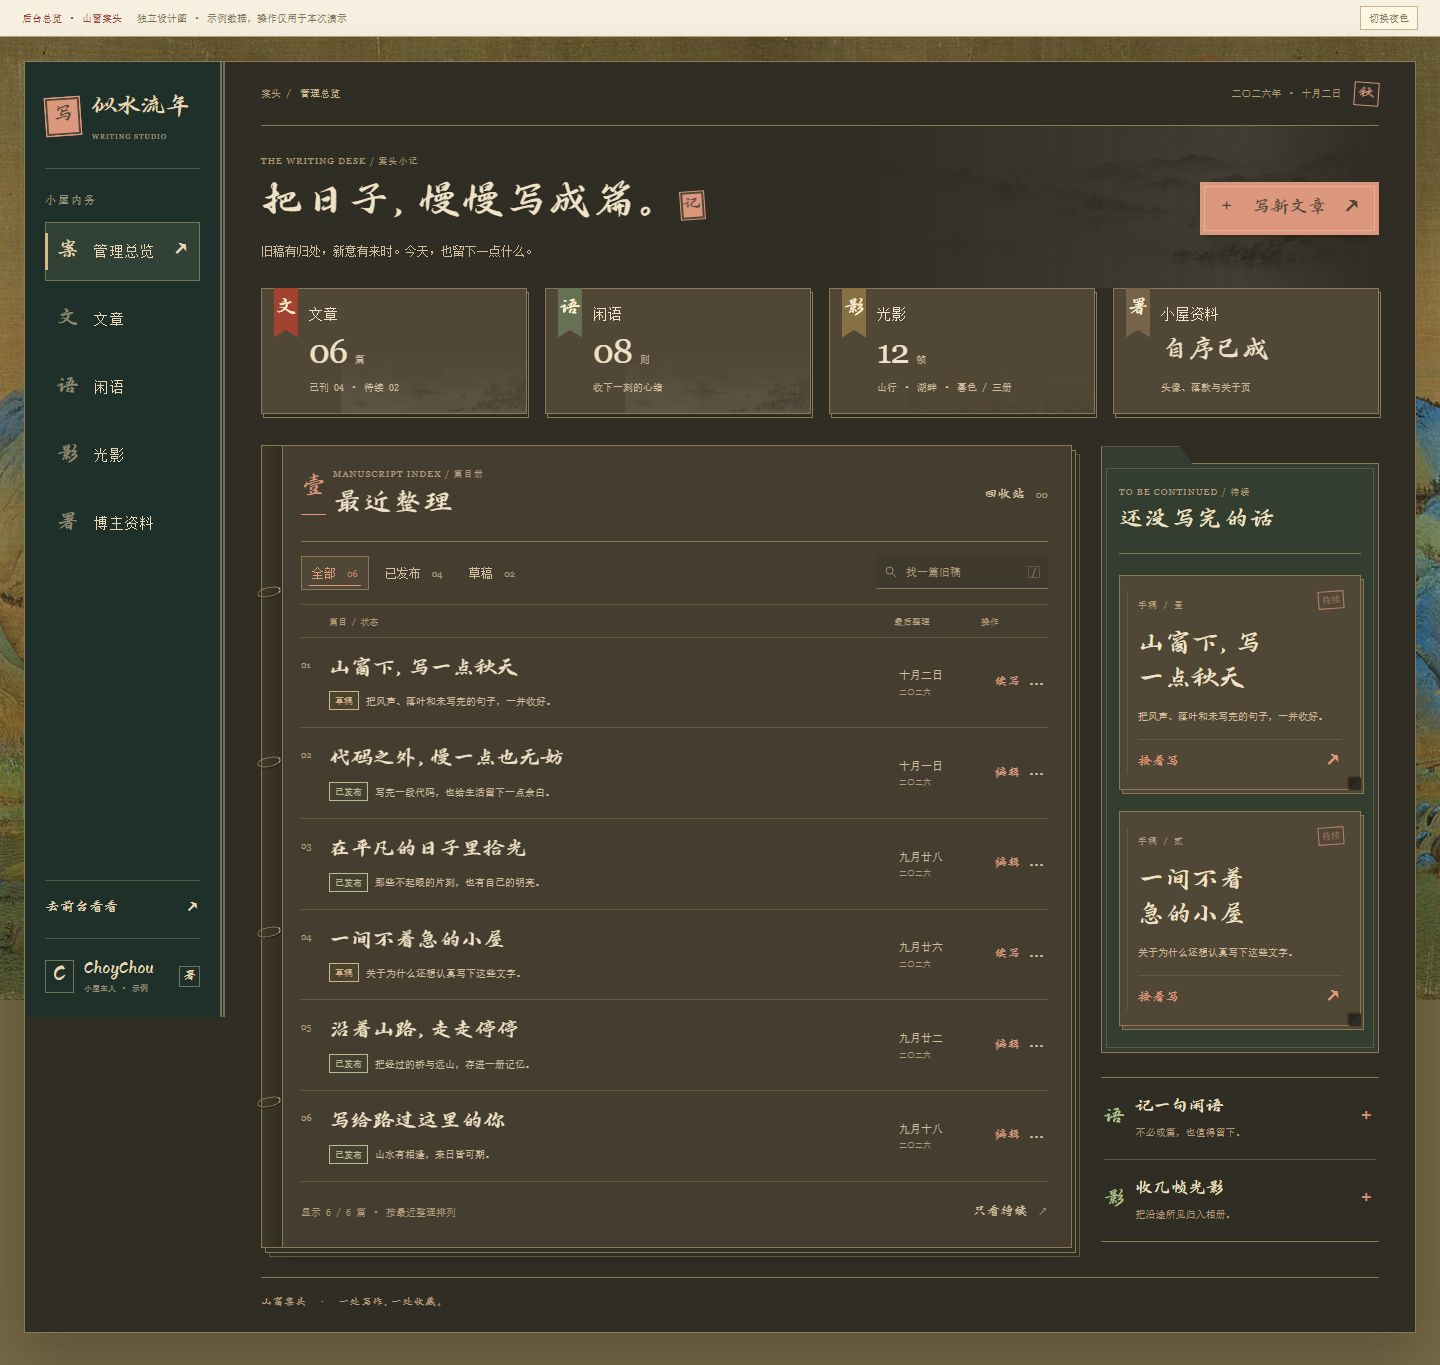
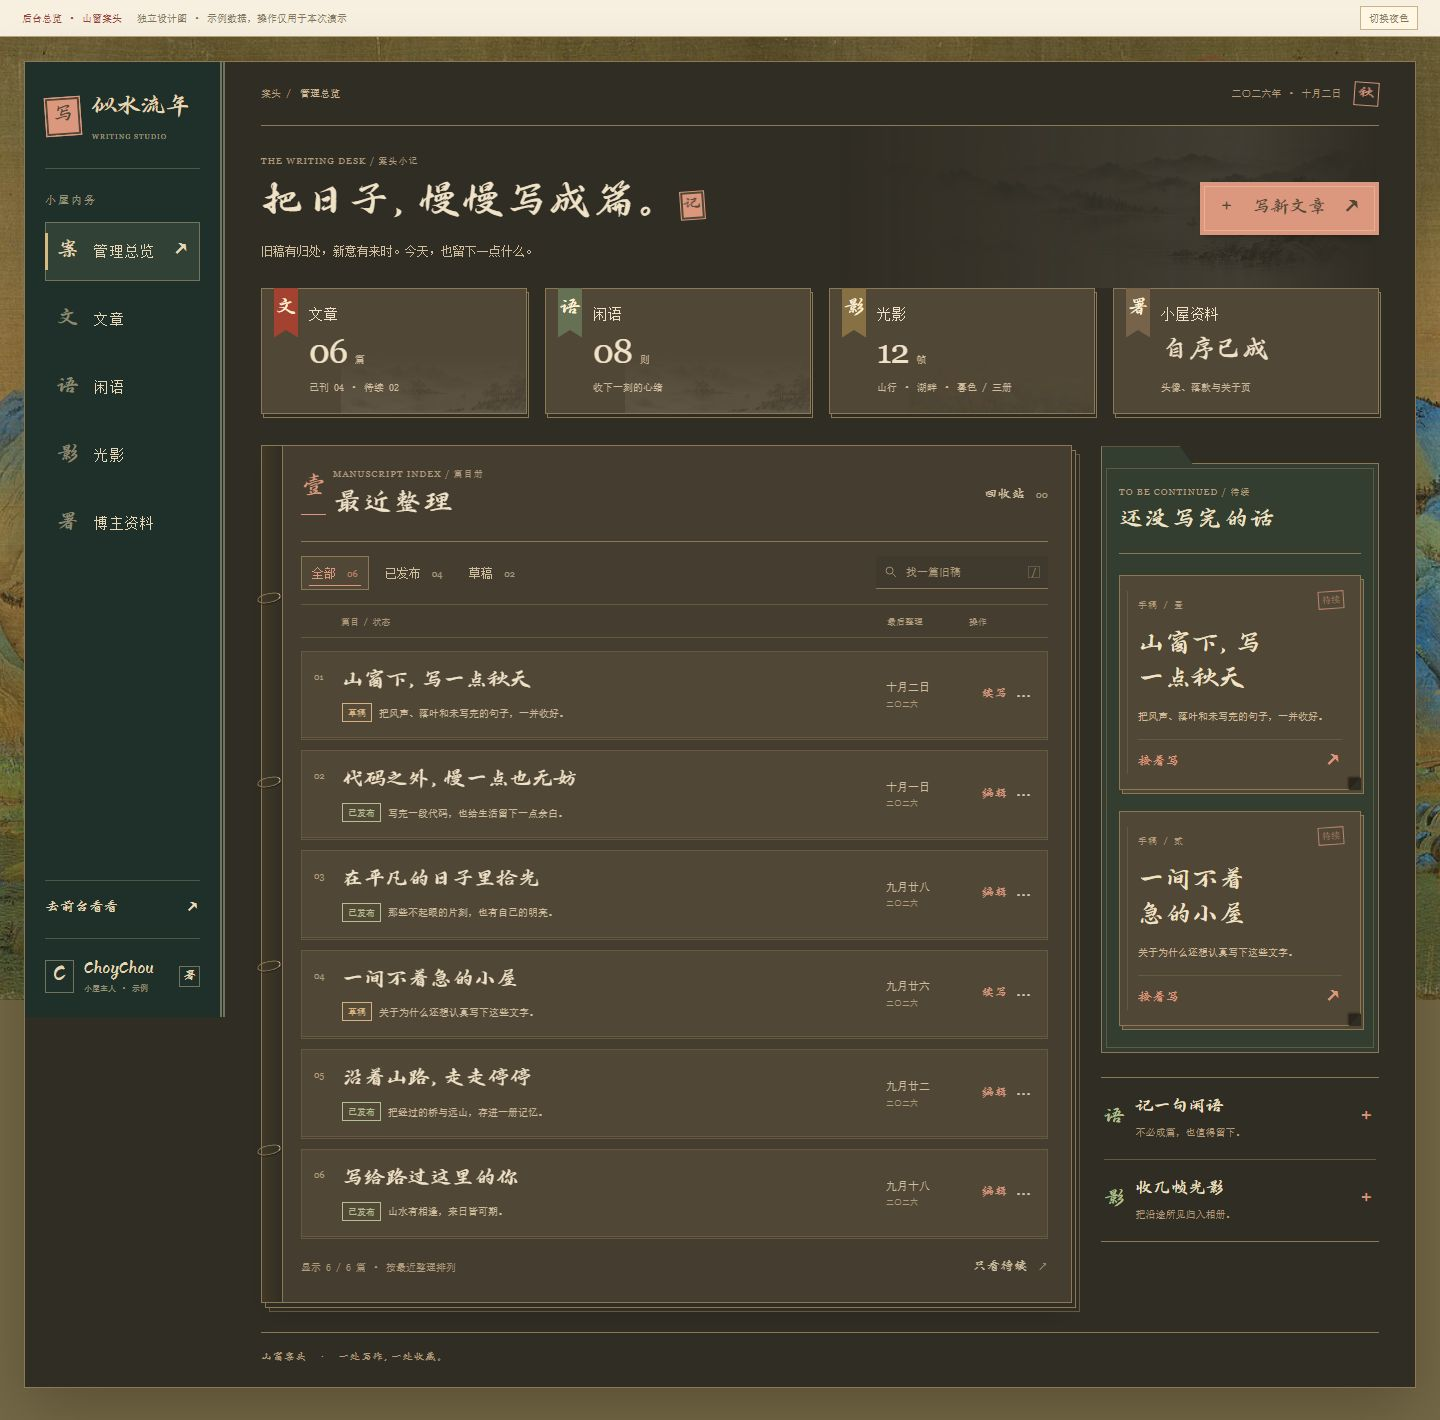
design(admin): separate paper cards and refine pointer effects

diff --git a/effect-preview/admin-desk-overview-v1.css b/effect-preview/admin-desk-overview-v1.css
@@ -96,12 +96,17 @@ main {min-width:0;padding:0 36px;}
 .search kbd {font:9px Georgia,serif;color:var(--faint);border:1px solid var(--fine);padding:0 3px;}
 .list-caption {display:grid;grid-template-columns:minmax(0,1fr) 72px 67px;gap:15px;padding:12px 0 10px;border-bottom:1px solid var(--fine);font:9px var(--song);color:var(--faint);}
 .list-caption>span:first-child {padding-left:28px;}
-.post {position:relative;isolation:isolate;display:grid;grid-template-columns:18px minmax(0,1fr) 72px 67px;align-items:center;gap:10px;padding:17px 0;border-bottom:1px solid var(--fine);}
-.post::before {content:'';position:absolute;z-index:-1;inset:0;background:radial-gradient(ellipse at var(--mx,30%) var(--my,50%),#ad8d5322,transparent 75%);opacity:0;transition:opacity .4s;}
-.post::after {content:'';position:absolute;left:-19px;top:20%;bottom:20%;width:2px;background:var(--seal);transform:scaleY(0);transform-origin:top;transition:transform .35s var(--ease);}
+.post-list {display:grid;gap:12px;padding-top:13px;}
+.post {position:relative;isolation:isolate;display:grid;grid-template-columns:18px minmax(0,1fr) 72px 67px;align-items:center;gap:10px;padding:15px 12px;background:var(--card);border:1px solid var(--fine);box-shadow:0 2px 0 -1px var(--panel),0 2px 0 var(--fine);transition:transform .35s var(--ease),border-color .35s,box-shadow .35s;}
+.post::before {content:'';position:absolute;z-index:-1;inset:1px;pointer-events:none;background:radial-gradient(ellipse 230px 130px at var(--mx,30%) var(--my,50%),#fff3c982,transparent 75%),radial-gradient(ellipse at var(--mx,30%) var(--my,50%),#ac855224,transparent 85%);opacity:0;transition:opacity .35s;}
+.post::after {content:'';position:absolute;left:-5px;top:18px;width:5px;height:31px;background:var(--seal);clip-path:polygon(0 0,100% 0,100% 100%,50% 87%,0 100%);transform:scaleY(0);transform-origin:top;transition:transform .35s var(--ease);}
+.post:hover,.post:focus-within {z-index:1;border-color:color-mix(in srgb,var(--seal) 48%,var(--line));box-shadow:0 2px 0 -1px var(--panel),0 2px 0 var(--line),0 9px 15px -12px var(--shadow);}
+.post:has(details[open]) {z-index:5;}
+@media(hover:hover) and (pointer:fine) {.post:hover {transform:translateY(-2px);}}
+.post:hover .post-index,.post:focus-within .post-index {color:var(--seal);}
 .post:hover::before,.post:focus-within::before {opacity:1;}
 .post:hover::after,.post:focus-within::after {transform:scaleY(1);}
-.post-index {align-self:start;font:9px Georgia,serif;color:var(--faint);padding-top:5px;}
+.post-index {align-self:start;font:9px Georgia,serif;color:var(--faint);padding-top:5px;transition:color .35s;}
 .post-copy {min-width:0;display:flex;align-items:center;flex-wrap:wrap;gap:7px;}
 .post-title {width:100%;border:0;padding:0;background:none;text-align:left;font:22px/1.35 var(--brush);letter-spacing:.025em;text-wrap:balance;transition:color .3s;}
 .post-title:hover {color:var(--seal);}
@@ -115,7 +120,9 @@ main {min-width:0;padding:0 36px;}
 .post time {font:11px/1.5 var(--song);color:var(--soft);white-space:nowrap;}
 .post time small {display:block;margin-top:3px;font:8px var(--song);color:var(--faint);}
 .post-ops {display:flex;align-items:center;justify-content:flex-end;gap:5px;}
-.edit-post {padding:7px 0;border:0;background:none;font:13px var(--brush);color:var(--seal);white-space:nowrap;}
+.edit-post {position:relative;padding:7px 0;border:0;background:none;font:13px var(--brush);color:var(--seal);white-space:nowrap;}
+.edit-post::before {content:'↗';position:absolute;left:-13px;top:7px;opacity:0;transform:translate(-3px,3px);transition:opacity .35s,transform .35s;}
+.post:hover .edit-post::before,.post:focus-within .edit-post::before {opacity:1;transform:none;}
 .edit-post span {display:none;}
 .post details {position:relative;}
 .post summary {display:grid;place-items:center;list-style:none;width:23px;height:29px;font:18px/1 Georgia,serif;color:var(--soft);cursor:pointer;}
@@ -149,6 +156,10 @@ main {min-width:0;padding:0 36px;}
 .draft-note:hover,.draft-note:focus-visible {transform:translateY(-2px);box-shadow:3px 5px 0 -1px var(--card),3px 5px 0 var(--line),0 12px 16px -12px var(--shadow);}
 .draft-note:hover .note-fold,.draft-note:focus-visible .note-fold {width:24px;height:24px;}
 .draft-note:hover .note-action b {transform:translate(2px,-2px);}
+@media(hover:hover) and (pointer:fine) {
+  .metric:hover,.draft-note:hover {background-image:radial-gradient(ellipse 180px 130px at var(--mx,50%) var(--my,50%),#fff3c94d,transparent 85%);}
+  .draft-note:hover {transform:perspective(900px) translateY(-2px) rotateX(var(--rx,0deg)) rotateY(var(--ry,0deg));}
+}
 .quick-notes {margin-top:24px;border-top:1px solid var(--line);border-bottom:1px solid var(--line);padding:0 3px;}
 .quick-notes button {display:flex;align-items:center;width:100%;gap:11px;padding:18px 0;text-align:left;background:none;border:0;border-bottom:1px solid var(--fine);transition:color .3s;}
 .quick-notes button:last-child {border-bottom:0;}
@@ -182,6 +193,11 @@ dialog::backdrop {background:#292313a3;backdrop-filter:blur(4px);}
 .noscript {text-align:center;padding:16px;background:var(--card);font-size:11px;color:var(--soft);}
 :root[data-theme=dark] .welcome-wash,:root[data-theme=dark] .metric::before {filter:brightness(.65) sepia(.2);}
 :root[data-theme=dark] .draft {color:#d6b182;}
+:root[data-theme=dark] .post::before {background:radial-gradient(ellipse 230px 130px at var(--mx,30%) var(--my,50%),#e8c28b1d,transparent 80%);}
+:root[data-theme=dark] .metric:hover,:root[data-theme=dark] .draft-note:hover {background-image:radial-gradient(ellipse 180px 130px at var(--mx,50%) var(--my,50%),#e8c28b14,transparent 85%);}
+
+/* 纸卡内边距与表头对齐；不挤占手机的正文宽度。 */
+.list-caption {padding-inline:12px;gap:10px;}
 @media(max-width:1540px) {.studio {margin-inline:24px;}}
 @media(max-width:1200px) {
 .studio {grid-template-columns:172px minmax(0,1fr);}.sidebar {padding-inline:15px;}.brand {font-size:22px;gap:9px;}.brand .seal {width:31px;height:35px;font-size:20px;}.sidebar nav {gap:8px;}.sidebar nav a,.sidebar nav button {gap:8px;padding-inline:5px;}.sidebar nav span {font-size:14px;}main {padding-inline:25px;}.work-area {grid-template-columns:minmax(0,1fr) 236px;gap:22px;}.archive {padding-left:33px;padding-right:16px;}.book-binding {width:18px;}.book-binding i {width:21px;}.metrics {gap:13px;}.metric {padding-left:40px;padding-right:9px;}.metric-tab {left:9px;}.metric p {font-size:9px;}.welcome h1 {font-size:38px;}.welcome .primary {font-size:17px;padding-inline:13px;gap:10px;}.draft-note {padding-inline:15px;}.draft-note h3 {font-size:25px;}.drafts {padding-inline:14px;}.filters button {padding-inline:8px;}.search {width:100%;}.post {grid-template-columns:15px minmax(0,1fr) 61px 58px;gap:7px;}.list-caption {grid-template-columns:minmax(0,1fr) 61px 58px;gap:14px;}.post-title {font-size:20px;}.post time {font-size:10px;}.post-ops {gap:2px;}.edit-post {font-size:12px;}
@@ -196,4 +212,5 @@ dialog::backdrop {background:#292313a3;backdrop-filter:blur(4px);}
 .preview-bar {padding:6px 12px;font-size:8px;}.preview-bar b {margin-right:4px;}.preview-bar button {font-size:9px;}.studio {display:block;margin:14px 12px 23px;}.sidebar {position:relative;top:auto;height:auto;min-height:0;padding:17px 16px 0;border-right:0;border-bottom:4px double #d4c49a75;}.brand {justify-content:flex-start;padding:0 0 15px;gap:10px;}.brand>span {display:block;font-size:24px;}.brand small {font-size:7px;}.sidebar nav {grid-template-columns:repeat(5,minmax(0,1fr));gap:4px;margin:12px -4px 0;}.sidebar nav a,.sidebar nav button {min-height:54px;flex-direction:column;gap:6px;padding:7px 0 12px;border:0;}.sidebar nav span {display:block;font:12px var(--song);white-space:nowrap;letter-spacing:0;}.sidebar nav i {font-size:20px;}.sidebar nav [aria-current=page] {background:transparent;}.sidebar nav [aria-current=page]::before {top:auto;bottom:0;left:10%;right:10%;height:2px;width:auto;}main {padding-inline:16px;}.topline {min-height:52px;font-size:8px;}.desk-date {font-size:8px;gap:8px;}.desk-date i {font-size:12px;}.welcome {flex-direction:column;align-items:flex-start;gap:16px;min-height:0;padding:23px 0 26px;}.welcome h1 {font-size:35px;}.welcome-title-tail {display:block;}.welcome h1 .seal {width:21px;height:24px;font-size:14px;vertical-align:3px;margin-left:8px;}.welcome p:last-child {font-size:10px;line-height:1.9;}.welcome .primary {align-self:flex-end;font-size:16px;min-height:39px;padding:9px 13px;gap:16px;}.welcome-wash {top:48px;bottom:0;width:85%;}.metrics {gap:14px;margin-bottom:27px;}.metric {padding:15px 8px 14px 36px;min-height:122px;}.metric-tab {left:7px;width:20px;height:43px;font-size:17px;}.metric-name {font-size:12px;}.metric-number {font-size:29px;}.metric p {font-size:9px;}.profile-status {font-size:22px;}.archive {padding:0 12px 14px 27px;box-shadow:3px 4px 0 -1px var(--paper),3px 4px 0 var(--line);}.book-binding {width:14px;}.book-binding i {width:17px;height:8px;margin-left:-4px;}.section-head {padding:17px 0 16px;gap:10px;}.section-head h2 {font-size:26px;}.eyebrow {font-size:8px;}.archive .section-head>div {padding-left:25px;}.chapter-number {font-size:23px;}.text-button {font-size:12px;}.filter-line {gap:13px;padding:13px 0;}.filters {width:100%;justify-content:space-between;gap:2px;}.filters button {flex:1;font-size:11px;padding-inline:5px;}.search {width:100%;}.list-caption {display:none;}.post {grid-template-columns:12px minmax(0,1fr) 53px;gap:6px;padding:17px 0;}.post::after {left:-10px;}.post-copy {grid-column:2;grid-row:1;gap:7px;align-items:start;}.post-title {font-size:21px;}.post-copy>p {flex:0 0 100%;order:2;white-space:normal;display:-webkit-box;-webkit-line-clamp:2;-webkit-box-orient:vertical;font-size:10px;}.post-copy>div {order:3;}.status {font-size:9px;}.post time {grid-column:3;grid-row:1;align-self:start;text-align:right;font-size:10px;margin-top:3px;}.post time small {font-size:8px;}.post-ops {grid-column:3;grid-row:1;align-self:end;gap:1px;padding-top:35px;}.edit-post {font-size:12px;}.post summary {width:19px;height:27px;font-size:16px;}.post details>div {min-width:128px;}.list-foot {font-size:9px;gap:6px;}.list-foot .text-button {font-size:11px;}.drafts {padding-inline:13px;}.drafts .section-head {padding:17px 0 16px;}.drafts h2 {font-size:24px;}#draft-cards {gap:13px;}.draft-note {padding:13px 10px 12px;min-height:198px;}.draft-note::before {left:4px;}.draft-note::after {right:9px;top:11px;font-size:8px;}.draft-note small {font-size:8px;letter-spacing:0;}.draft-note h3 {font-size:22px;margin-top:17px;}.draft-note p {font-size:9px;}.note-action {font-size:12px;}.quick-notes {gap:16px;}.quick-notes button {gap:8px;}.quick-notes span {font-size:15px;}.quick-notes small {font-size:9px;}.quick-notes b {font-size:18px;}.desk-footer {font-size:10px;margin-top:24px;}dialog {padding:23px 20px 18px;}.dialog-head h2 {font-size:28px;}.dialog-foot {flex-wrap:wrap;}.dialog-foot .primary {margin-left:auto;min-height:43px;font-size:18px;}.field input {font-size:15px;}.toast {padding:11px 13px;gap:12px;font-size:11px;}.module-images {gap:8px;}.module-images img {height:78px;}
 }
 @media(max-width:375px) {.welcome h1 {font-size:31px;}.welcome h1 .seal {margin-left:4px;}.metric-number {font-size:27px;}.profile-status {font-size:21px;}.metric p {font-size:8px;}.post {grid-template-columns:10px minmax(0,1fr) 50px;gap:5px;}.post-title {font-size:20px;}.draft-note h3 {font-size:21px;}.draft-note::after {font-size:7px;right:6px;}}
-@media(prefers-reduced-motion:reduce) {html {scroll-behavior:auto;}*,*::before,*::after {transition:none!important;animation:none!important;}.primary:hover,.draft-note:hover,.draft-note:focus-visible {transform:none;}.draft-note:hover .note-action b {transform:none;}}
+@media(max-width:620px) {.post {padding-inline:8px;}.post::after {left:-4px;}.post-list {gap:13px;}.edit-post::before {display:none;}}
+@media(prefers-reduced-motion:reduce) {html {scroll-behavior:auto;}*,*::before,*::after {transition:none!important;animation:none!important;}.primary:hover,.post:hover,.draft-note:hover,.draft-note:focus-visible {transform:none;}.draft-note:hover .note-action b {transform:none;}.metric:hover,.draft-note:hover {background-image:none;}}

diff --git a/effect-preview/admin-desk-overview-v1.js b/effect-preview/admin-desk-overview-v1.js
@@ -133,6 +133,45 @@
     if(event.key === '/' && !editor.open && !moduleDialog.open && !event.target.matches('input,textarea')) {event.preventDefault();$('#search').focus();}
     if(event.key === 'Escape') $$('details[open]').forEach(details=>details.open=false);
   });
-  $$('.post').forEach(row=>row.addEventListener('pointermove',event=>{if(event.pointerType==='touch'||matchMedia('(prefers-reduced-motion: reduce)').matches)return;const box=row.getBoundingClientRect();row.style.setProperty('--mx',`${(event.clientX-box.left)/box.width*100}%`);row.style.setProperty('--my',`${(event.clientY-box.top)/box.height*100}%`);}));
+  const reducedMotion = matchMedia('(prefers-reduced-motion: reduce)');
+  const fineHover = matchMedia('(hover: hover) and (pointer: fine)');
+  const interactivePaper = '.post,.metric,.draft-note';
+  let paperTarget = null, paperFrame = 0, pointerPosition = null;
+  function clearPaperPointer() {
+    if (paperFrame) cancelAnimationFrame(paperFrame);
+    paperFrame = 0;
+    if (paperTarget) {
+      ['--mx','--my','--rx','--ry'].forEach(property => paperTarget.style.removeProperty(property));
+    }
+    paperTarget = null;
+  }
+  // 委托监听让新建文章与刷新后的手稿也能获得相同反馈。
+  document.addEventListener('pointermove', event => {
+    if (event.pointerType === 'touch' || reducedMotion.matches || !fineHover.matches) return;
+    const card = event.target.closest(interactivePaper);
+    if (!card) {clearPaperPointer();return;}
+    if (card !== paperTarget) {clearPaperPointer();paperTarget = card;}
+    pointerPosition = {x:event.clientX,y:event.clientY};
+    if (paperFrame) return;
+    paperFrame = requestAnimationFrame(() => {
+      paperFrame = 0;
+      if (!paperTarget?.isConnected) {clearPaperPointer();return;}
+      const box = paperTarget.getBoundingClientRect();
+      const x = Math.min(1,Math.max(0,(pointerPosition.x-box.left)/box.width));
+      const y = Math.min(1,Math.max(0,(pointerPosition.y-box.top)/box.height));
+      paperTarget.style.setProperty('--mx',`${x*100}%`);
+      paperTarget.style.setProperty('--my',`${y*100}%`);
+      paperTarget.style.setProperty('--rx',`${(0.5-y)*1.6}deg`);
+      paperTarget.style.setProperty('--ry',`${(x-0.5)*1.6}deg`);
+    });
+  });
+  document.addEventListener('pointerout', event => {
+    if (!paperTarget || !paperTarget.contains(event.target)) return;
+    if (event.relatedTarget instanceof Node && paperTarget.contains(event.relatedTarget)) return;
+    clearPaperPointer();
+  });
+  reducedMotion.addEventListener('change',clearPaperPointer);
+  fineHover.addEventListener('change',clearPaperPointer);
+  window.addEventListener('blur',clearPaperPointer);
   refresh();
 })();

diff --git a/effect-preview/admin-desk-overview-v1.md b/effect-preview/admin-desk-overview-v1.md
@@ -8,7 +8,7 @@
 
 沿用现有博客的青绿山水、米色宣纸、手写标题与朱印，以“案头书册”为统一结构。深松绿目录像书脊，文章区像一本篇目册，待续区像一只手稿夹，四个概览入口像书签索引。颜色用于定位，特色集中在稿册的装订边、双层页口与书签结构。
 
-控制装饰数量：整页底纸保持干净，淡山水只用于欢迎区与索引卡下沿；稿册只保留四处装订线环，手稿夹整齐叠页，每张手稿仅一个“待续”印记。标题、状态、摘要、日期和操作各有固定位置，桌面每篇文章收成两行，手机端允许标题自然平衡换行。隐藏 slug 的视觉展示（仍可搜索），不再增加胶带、随笔旁注和重复小印。
+控制装饰数量：整页底纸保持干净，淡山水只用于欢迎区与索引卡下沿；稿册只保留四处装订线环，手稿夹整齐叠页，每张手稿仅一个“待续”印记。每篇文章是一张独立纸卡，以 12px 间距、细边框和双线纸边分隔。标题、状态、摘要、日期和操作各有固定位置，桌面每篇文章收成两行，手机端允许标题自然平衡换行。隐藏 slug 的视觉展示（仍可搜索），不再增加胶带、随笔旁注和重复小印。
 
 - 左侧目录：以深松绿书脊区分导航，保留管理总览、文章、闲语、光影、博主资料。
 - 顶部：中文日期、新文章按钮和四枚书签索引，题签下沿切出书签缺口。
@@ -22,16 +22,16 @@
 
 | 元素 | 演示行为 |
 | --- | --- |
-| 概览卡 | 书签轻微伸展、边线响应、下沿淡山水轻移；文章卡返回全部篇目 |
-| 待续手稿 | 平时整齐对齐，悬停轻抬，折角和箭头响应；点击打开手稿弹窗 |
-| 文章列表 | 朱色页签从页边出现，淡墨随鼠标位置移动；支持按发布状态筛选、搜索标题/摘要/slug |
+| 概览卡 | 柔光随鼠标位置移动，书签轻微伸展、边线响应、下沿淡山水轻移；文章卡返回全部篇目 |
+| 待续手稿 | 平时整齐对齐；鼠标悬停轻抬，倾斜角度最大约 0.8 度，柔光、折角和箭头响应；点击打开手稿弹窗 |
+| 文章列表 | 每张纸卡独立分隔，悬停上移 2px，朱色页签从页边出现，柔光随鼠标位置移动，操作箭头显现；支持按发布状态筛选、搜索标题/摘要/slug |
 | 新文章与续写 | 演示编辑篇名、小序、正文；保存后同步列表、计数和待续卡 |
 | 回收站 | 演示移入、撤销、恢复；恢复为草稿，与现有后台行为一致 |
 | 闲语、光影、资料入口 | 展示功能说明，详情页另出设计图 |
 | 日夜切换 | 仅切换本预览的纸面与文字配色 |
 | 键盘 | `/` 聚焦搜索，Escape 关闭弹窗或更多菜单，保留可见焦点 |
 
-启用减少动态效果时取消位移与过渡。关闭 JavaScript 时仍可阅读六篇静态示例。
+鼠标移出后清除位置与倾斜；使用帧调度更新光影位置，新建文章和刷新后的手稿通过委托监听获得相同交互。触屏不启用跟随光影或倾斜，键盘聚焦仍有边线与页签反馈。启用减少动态效果时取消位移、倾斜与过渡。关闭 JavaScript 时仍可阅读六篇静态示例。
 
 ## 数据与正式接入
 
@@ -43,9 +43,12 @@
 
 - 在 HTTP 预览中验证了 13 种宽度、日夜两套主题，共 26 组布局，覆盖 360–1440px，无横向溢出。
 - 搜索、空状态、筛选、移入回收站、撤销、恢复、新建/编辑/重新打开手稿、弹窗 Escape、快捷搜索、手机弹窗边界与减少动态效果检查通过；未发现页面脚本错误。
+- 鼠标跟随与移出复位、新建文章与重建手稿的交互、动态切换减少动态效果后的复位，以及触屏不跟随/不位移检查通过。
 - `node --check effect-preview/admin-desk-overview-v1.js`、`tsc --noEmit`、`next build` 通过。
 - `vitest run`：69 个测试文件、345 项断言通过，但有 5 个既有 `DailyQuote` 未处理异常（测试环境的 `echo.animate` 不存在），进程退出码为 1，不能称全套测试通过。
-- 截图：`screenshots/admin-overview-v1-desktop.jpg`、`screenshots/admin-overview-v1-mobile.jpg`、`screenshots/admin-overview-v1-dark.jpg`。
+- 截图：`screenshots/admin-overview-v1-desktop.jpg`、`screenshots/admin-overview-v1-mobile.jpg`、`screenshots/admin-overview-v1-dark.jpg`、`screenshots/admin-overview-v1-hover.jpg`。
+
+![文章纸卡悬停效果](screenshots/admin-overview-v1-hover.jpg)
 
 ![白天桌面设计](screenshots/admin-overview-v1-desktop.jpg)
 
